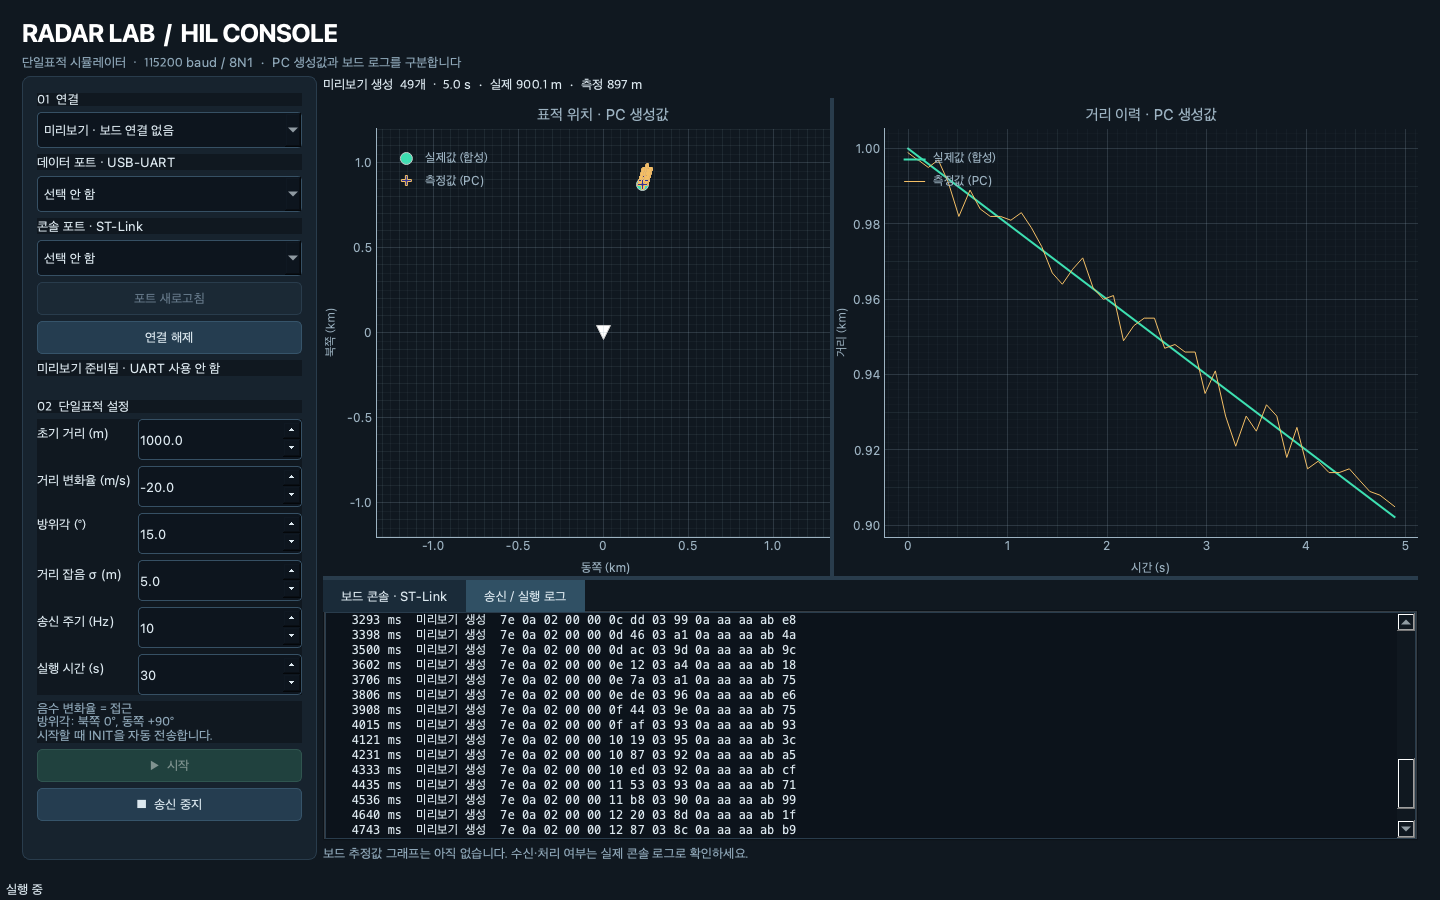
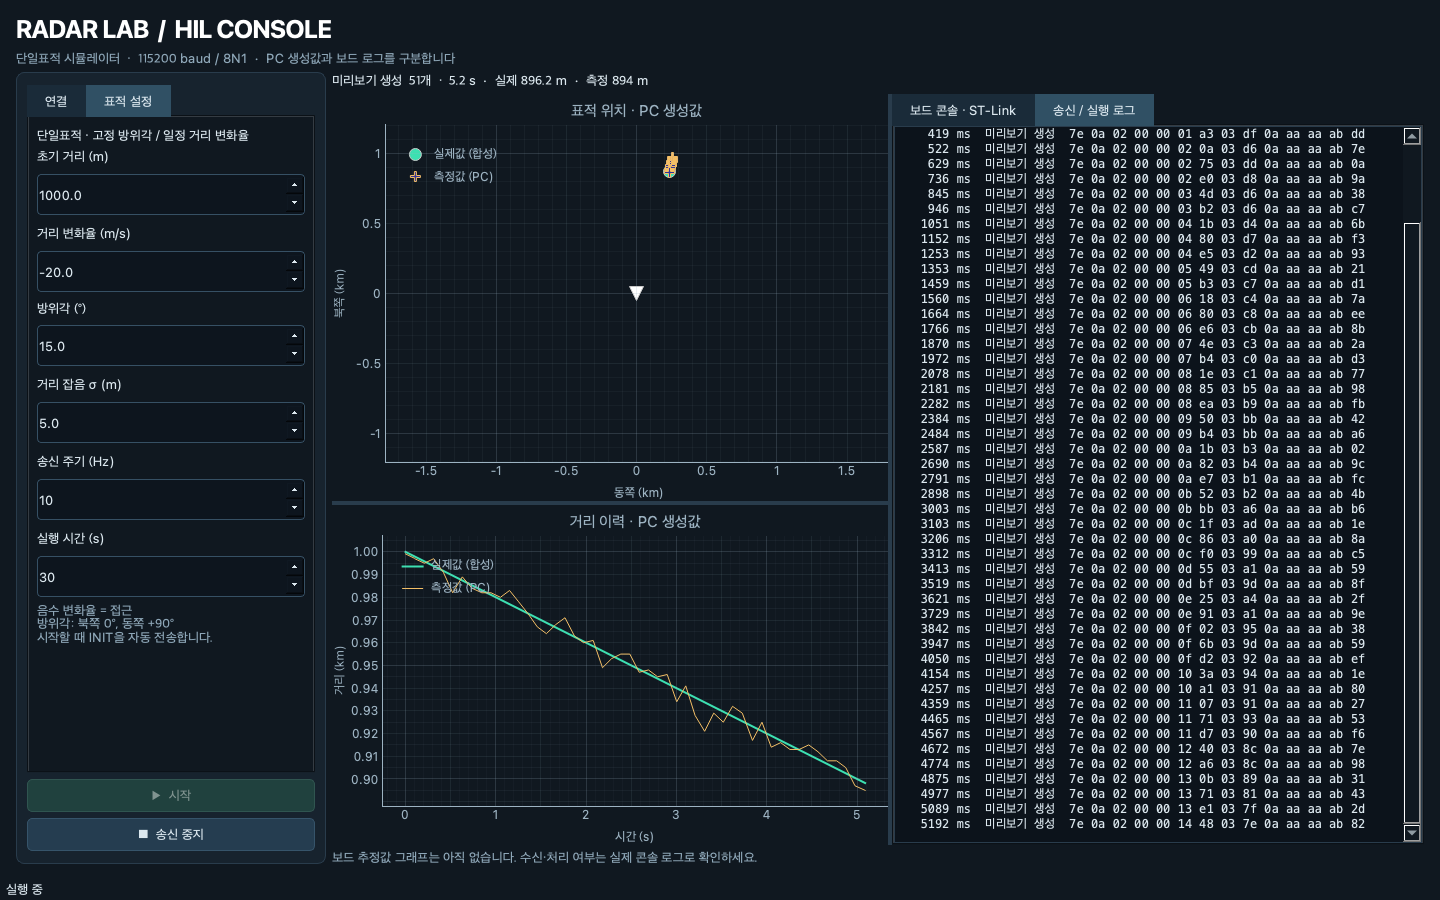
fix(gui): fit settings and stack plots beside logs

diff --git a/pc_sim/gui.py b/pc_sim/gui.py
@@ -8,7 +8,7 @@ from PySide6.QtGui import QTextCursor
 from PySide6.QtWidgets import (
     QApplication, QComboBox, QDoubleSpinBox, QFormLayout, QFrame,
     QHBoxLayout, QLabel, QMainWindow, QPlainTextEdit, QPushButton,
-    QSplitter, QTabWidget, QVBoxLayout, QWidget,
+    QSplitter, QTabWidget, QVBoxLayout, QWidget, QScrollArea, QLayout, QSizePolicy,
 )
 import pyqtgraph as pg
 from serial.tools import list_ports
@@ -47,29 +47,48 @@ class MainWindow(QMainWindow):
         self.sample_count = 0
         self.setWindowTitle('Radar Lab · HIL Console')
         self.resize(1280, 850)
-        self.setMinimumSize(1100, 820)
+        self.setMinimumSize(950, 600)
+        screen = QApplication.primaryScreen().availableGeometry()
+        self.resize(min(1280, screen.width() - 40), min(850, screen.height() - 80))
         self.setStyleSheet(STYLE)
         pg.setConfigOptions(antialias=True, background='#101820', foreground='#9db3c2')
         root = QWidget()
         self.setCentralWidget(root)
         layout = QVBoxLayout(root)
-        layout.setContentsMargins(22, 18, 22, 18)
+        layout.setContentsMargins(16, 14, 16, 14)
         title = QLabel('RADAR LAB  /  HIL CONSOLE')
         title.setObjectName('title')
         layout.addWidget(title)
         subtitle = QLabel('단일표적 시뮬레이터  ·  115200 baud / 8N1  ·  PC 생성값과 보드 로그를 구분합니다')
         subtitle.setObjectName('subtitle')
+        subtitle.setWordWrap(True)
         layout.addWidget(subtitle)
 
         body = QHBoxLayout()
         layout.addLayout(body, 1)
         panel = QFrame()
         panel.setObjectName('panel')
-        panel.setFixedWidth(295)
-        controls = QVBoxLayout(panel)
-        controls.setContentsMargins(14, 16, 14, 16)
+        panel.setFixedWidth(310)
+        panel_layout = QVBoxLayout(panel)
+        panel_layout.setContentsMargins(10, 12, 10, 12)
         body.addWidget(panel)
-        controls.addWidget(QLabel('01  연결'))
+        self.control_tabs = QTabWidget()
+        panel_layout.addWidget(self.control_tabs, 1)
+
+        def tab_page(title):
+            scroll = QScrollArea()
+            scroll.setWidgetResizable(True)
+            scroll.setFrameShape(QFrame.Shape.NoFrame)
+            scroll.setHorizontalScrollBarPolicy(Qt.ScrollBarPolicy.ScrollBarAlwaysOff)
+            content = QWidget()
+            page_layout = QVBoxLayout(content)
+            page_layout.setContentsMargins(8, 12, 8, 12)
+            page_layout.setSizeConstraint(QLayout.SizeConstraint.SetMinimumSize)
+            scroll.setWidget(content)
+            self.control_tabs.addTab(scroll, title)
+            return scroll, page_layout
+
+        _, controls = tab_page('연결')
         self.mode = QComboBox()
         self.mode.addItems(['미리보기 · 보드 연결 없음', '보드 UART · 실제 송신'])
         controls.addWidget(self.mode)
@@ -90,11 +109,18 @@ class MainWindow(QMainWindow):
         self.connection_label = QLabel('연결되지 않음')
         self.connection_label.setWordWrap(True)
         controls.addWidget(self.connection_label)
-        controls.addSpacing(18)
-        controls.addWidget(QLabel('02  단일표적 설정'))
+        controls.addStretch()
+        self.controls_scroll, controls = tab_page('표적 설정')
+        scope_note = QLabel('단일표적 · 고정 방위각 / 일정 거리 변화율')
+        scope_note.setWordWrap(True)
+        controls.addWidget(scope_note)
         self.settings_form = QWidget()
         fields = QFormLayout(self.settings_form)
         fields.setContentsMargins(0, 0, 0, 0)
+        fields.setFieldGrowthPolicy(QFormLayout.FieldGrowthPolicy.AllNonFixedFieldsGrow)
+        fields.setRowWrapPolicy(QFormLayout.RowWrapPolicy.WrapAllRows)
+        fields.setVerticalSpacing(10)
+        fields.setSizeConstraint(QLayout.SizeConstraint.SetMinimumSize)
         self.inputs = {}
         definitions = [
             ('range_m', '초기 거리 (m)', 1, 65535, 1000, 1),
@@ -109,6 +135,8 @@ class MainWindow(QMainWindow):
             field.setRange(low, high)
             field.setDecimals(decimals)
             field.setValue(default)
+            field.setMinimumHeight(max(38, field.sizeHint().height()))
+            field.setSizePolicy(QSizePolicy.Policy.Expanding, QSizePolicy.Policy.Fixed)
             self.inputs[key] = field
             fields.addRow(label, field)
         controls.addWidget(self.settings_form)
@@ -121,17 +149,20 @@ class MainWindow(QMainWindow):
         self.start_button.clicked.connect(self.start_simulation)
         self.stop_button = QPushButton('■  송신 중지')
         self.stop_button.clicked.connect(self.stop_simulation)
-        controls.addWidget(self.start_button)
-        controls.addWidget(self.stop_button)
         controls.addStretch()
+        panel_layout.addWidget(self.start_button)
+        panel_layout.addWidget(self.stop_button)
 
         right = QVBoxLayout()
         body.addLayout(right, 1)
         self.metrics = QLabel('대기  ·  생성/송신 0개  ·  경과 0.0 s')
+        self.metrics.setWordWrap(True)
         right.addWidget(self.metrics)
-        split = QSplitter(Qt.Orientation.Vertical)
+        self.content_split = split = QSplitter(Qt.Orientation.Horizontal)
+        split.setChildrenCollapsible(False)
         right.addWidget(split, 1)
-        plots = QSplitter(Qt.Orientation.Horizontal)
+        self.plots_split = plots = QSplitter(Qt.Orientation.Vertical)
+        plots.setChildrenCollapsible(False)
         split.addWidget(plots)
         self.map_plot = pg.PlotWidget(title='표적 위치 · PC 생성값')
         self.map_plot.setLabel('bottom', '동쪽', units='m')
@@ -154,8 +185,10 @@ class MainWindow(QMainWindow):
         self.truth_curve = self.range_plot.plot(pen=pg.mkPen('#3ce0b1', width=2), name='실제값 (합성)')
         self.measured_curve = self.range_plot.plot(pen=pg.mkPen('#f4bf65', width=1), name='측정값 (PC)')
         plots.addWidget(self.range_plot)
-        plots.setSizes([400, 460])
-        tabs = QTabWidget()
+        plots.setSizes([360, 300])
+        plots.setStretchFactor(0, 1)
+        plots.setStretchFactor(1, 1)
+        self.log_tabs = tabs = QTabWidget()
         self.console_text = QPlainTextEdit()
         self.event_text = QPlainTextEdit()
         for widget in (self.console_text, self.event_text):
@@ -164,7 +197,9 @@ class MainWindow(QMainWindow):
         tabs.addTab(self.console_text, '보드 콘솔 · ST-Link')
         tabs.addTab(self.event_text, '송신 / 실행 로그')
         split.addWidget(tabs)
-        split.setSizes([440, 240])
+        split.setSizes([460, 440])
+        split.setStretchFactor(0, 1)
+        split.setStretchFactor(1, 1)
         self.board_note = QLabel('보드 추정값 그래프는 아직 없습니다. 수신·처리 여부는 실제 콘솔 로그로 확인하세요.')
         self.board_note.setWordWrap(True)
         self.board_note.setObjectName('subtitle')

diff --git a/tests/test_gui.py b/tests/test_gui.py
@@ -131,3 +131,37 @@ def test_gui_same_port_rejected_before_open(app):
     finally:
         worker.requestInterruption()
         worker.wait(2000)
+
+
+def test_gui_settings_remain_accessible_in_short_window(app):
+    window = MainWindow()
+    window.resize(1000, 650)
+    window.show()
+    try:
+        app.processEvents()
+        assert window.height() <= 650
+        from PySide6.QtCore import Qt
+        assert window.content_split.orientation() == Qt.Orientation.Horizontal
+        assert window.plots_split.orientation() == Qt.Orientation.Vertical
+        assert window.log_tabs.height() >= window.plots_split.height() - 2
+        window.control_tabs.setCurrentIndex(1)
+        app.processEvents()
+        fields = list(window.inputs.values())
+        for field in fields:
+            assert field.height() >= field.minimumSizeHint().height()
+        for previous, following in zip(fields, fields[1:]):
+            assert previous.geometry().bottom() < following.geometry().top()
+        window.control_tabs.setCurrentIndex(1)
+        app.processEvents()
+        window.controls_scroll.ensureWidgetVisible(fields[-1])
+        app.processEvents()
+        from PySide6.QtCore import QPoint
+        viewport = window.controls_scroll.viewport()
+        position = fields[-1].mapTo(viewport, QPoint(0, 0))
+        assert position.y() >= 0
+        assert position.y() + fields[-1].height() <= viewport.height()
+        assert window.start_button.isVisible()
+        assert window.stop_button.isVisible()
+        assert window.stop_button.mapTo(window, QPoint(0, 0)).y() + window.stop_button.height() <= window.height()
+    finally:
+        window.close()

diff --git a/CLAUDE.md b/CLAUDE.md
@@ -34,7 +34,7 @@ STM32 + Zephyr 기반 레이더 추적 학습 프로젝트.
 
 ## 검증
 
-- `python -m pytest`: GUI 의존성 설치 시 55개 + subtest 9개. 미설치 시 Qt 테스트는 skip됩니다. 실제 보드와 별도입니다.
+- `python -m pytest`: GUI 의존성 설치 시 56개 + subtest 9개. 미설치 시 Qt 테스트는 skip됩니다. 실제 보드와 별도입니다.
 - [UART host 테스트](fcc_app/tests/test_uart_rx/README.md): drain 복구·링버퍼 8개 사례. 모사 IRQ는 실제 동시성을 검증하지 않습니다.
 - [Tracking C 테스트](fcc_app/tests/test_kalman/README.md): 필터·게이팅·추적 정책 13개 사례.
 - 수동 초기화만 필요할 때: `python pc_sim/small_byte_test.py init --type 1 --port PORT`.
